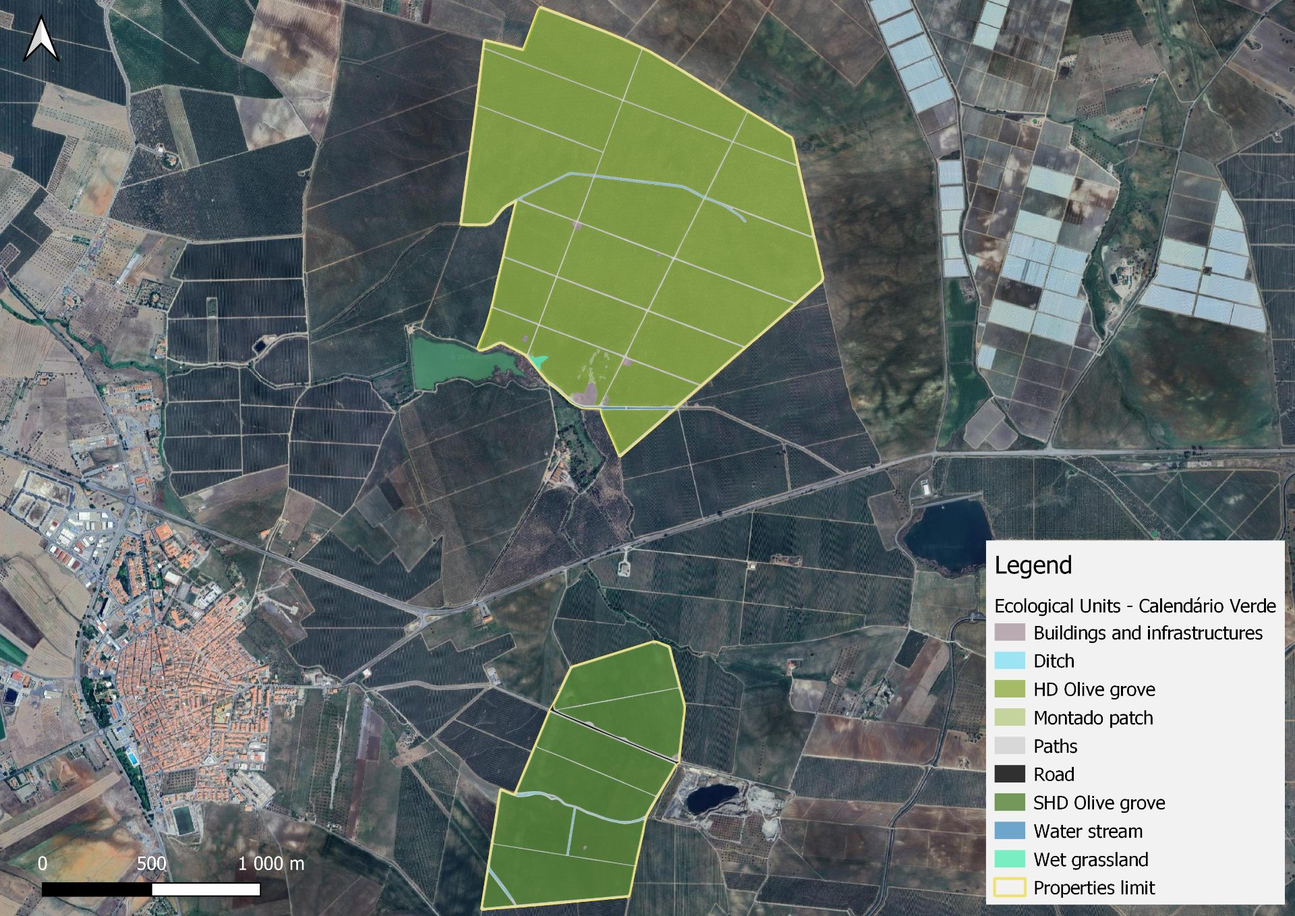
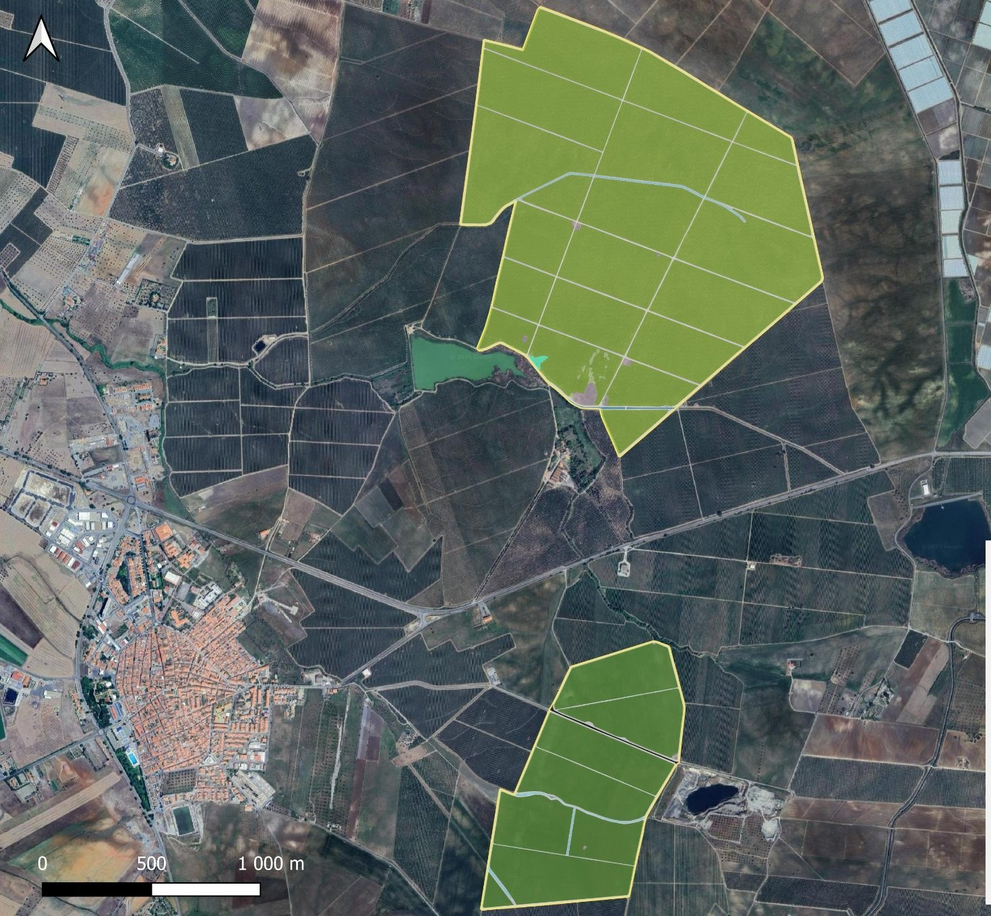
Fix Section 1/2 spacing and crop Section 6 farm maps
- Section 1 (Foreword): close the oversized gap between the "…ESG peers."
  and "In agriculture…" paragraphs so it matches the normal paragraph
  spacing; add an "— Alex Lawry-White and Nathan Hadlock" sign-off under
  the body text.
- Section 2 (Executive Summary): left-align the "Across everything we
  do…" block (and the two paragraphs after it) to match the other body
  text, instead of the centred 760px block.
- Section 6 (Our Portfolio): crop the three ecological-units farm maps
  from the right to remove their legends, and drop the captions. The
  Calendário Verde map is cropped in place (only used here); the Meirinho
  and Montinho maps get cropped copies so the full legended versions
  remain for the Section 13 deep dives.

Claude-Session: https://claude.ai/code/session_019RJWdrMA6n6Romz83YvDwN

diff --git a/impactreports/2025/pt2/index.html b/impactreports/2025/pt2/index.html
@@ -78,7 +78,7 @@
   </div>
 </section>
 
-<section data-section="01 · Foreword" style="padding:clamp(64px,11vh,140px) clamp(20px,5vw,64px);">
+<section data-section="01 · Foreword" style="padding:clamp(64px,11vh,140px) clamp(20px,5vw,64px) 0;">
   <div style="max-width:1180px;margin:0 auto;display:grid;grid-template-columns:1fr .82fr;gap:clamp(28px,4.5vw,60px);align-items:start;">
     <div>
       <p style="font-family:'JetBrains Mono',monospace;font-size:12px;letter-spacing:.24em;text-transform:uppercase;color:#b08b3f;font-weight:500;margin:0 0 14px;">Foreword from the Advisory Committee</p>
@@ -87,7 +87,7 @@
       <p style="text-wrap:pretty;margin:0 0 1.1em;">Impact is at the very heart of what we do. When we launched Pela Terra II in 2021, our vision was clear: we want to create a world in which agriculture contributes to restoring our planet, rather than being a factor in its destruction.</p>
       <p style="text-wrap:pretty;margin:0 0 1.1em;">With many thousands of hectares of irrigated agricultural land, a climate ideally suited for mediterranean perennials, diverse agricultural traditions and a supportive regulatory environment, Portugal offers the perfect location to roll out pioneering, forward-looking agronomic approaches.<sup style="font-size:.7em;"><a href="#fn-1" id="fnref-1" style="color:#b08b3f;text-decoration:none;padding:0 .1em;">1</a></sup></p>
       <p style="text-wrap:pretty;margin:0 0 1.1em;">Pela Terra II leverages these advantages to offer a unique proposition: a golden visa-eligible investment that allows investors to invest in creating impact while earning European residency for themselves and their families.</p>
-      <p style="text-wrap:pretty;margin:0;">We believe that the imperative to give back is not simply a moral one: multiple studies have suggested that funds that pay close attention to Environmental, Social and Governance (ESG) factors perform better than their non-ESG peers.<sup style="font-size:.7em;"><a href="#fn-2" id="fnref-2" style="color:#b08b3f;text-decoration:none;padding:0 .1em;">2</a></sup><sup style="font-size:.7em;"><a href="#fn-3" id="fnref-3" style="color:#b08b3f;text-decoration:none;padding:0 .1em;">3</a></sup></p>
+      <p style="text-wrap:pretty;margin:0 0 1.1em;">We believe that the imperative to give back is not simply a moral one: multiple studies have suggested that funds that pay close attention to Environmental, Social and Governance (ESG) factors perform better than their non-ESG peers.<sup style="font-size:.7em;"><a href="#fn-2" id="fnref-2" style="color:#b08b3f;text-decoration:none;padding:0 .1em;">2</a></sup><sup style="font-size:.7em;"><a href="#fn-3" id="fnref-3" style="color:#b08b3f;text-decoration:none;padding:0 .1em;">3</a></sup></p>
     </div>
     <figure style="margin:0;">
       <div style="display:grid;grid-template-columns:1fr 1fr;gap:16px;">
@@ -110,7 +110,7 @@
       <p style="text-wrap:pretty;margin:0 0 1.1em;">In agriculture, this relationship is clear on the ground: the adoption of regenerative agronomy correlates strongly to more resilient and consistent returns.<sup style="font-size:.7em;"><a href="#fn-4" id="fnref-4" style="color:#b08b3f;text-decoration:none;padding:0 .1em;">4</a></sup> It’s easy to see why - while conventional agriculture is in itself a significant contributor to the destruction of natural systems, agriculture as an industry is almost uniquely exposed to the risks related to environmental collapse. Changing weather patterns and collapsing biodiversity hit farmers before they hit other industries.</p>
       <p style="text-wrap:pretty;margin:0 0 1.1em;">Since we launched Pela Terra II in 2023, the environmental challenges facing our world have only become more acute. And as this report goes to press, ongoing geopolitical instability and resulting supply chain disruption is creating significant economic challenges for conventional farmers worldwide. The case for regenerative agriculture has never been stronger.</p>
       <p style="text-wrap:pretty;margin:0 0 1.1em;">Social and environmental impact is hugely important to Pela Terra II. The goal is for the assets managed by the fund to serve as beacons of sustainable and regenerative good practice in Portugal and Europe more widely. However, we also want to go a step further: our approach is to act as a catalyst to drive impact at scale, leveraging both our own portfolio and strong relationships with partners and operators to drive change in the sector as a whole.</p>
-      <p style="text-wrap:pretty;margin:0;">We are excited to share this impact journey with readers of this report.</p>
+      <p style="text-wrap:pretty;margin:0;">We are excited to share this impact journey with readers of this report.</p><p style="text-wrap:pretty;margin:1.4em 0 0;font-family:'Playfair Display',serif;font-style:italic;font-size:1.05rem;color:#0f4a4a;">— Alex Lawry-White and Nathan Hadlock</p>
     </div>
     <aside style="background:#f1e9da;border-top:2px solid #b08b3f;padding:30px 34px 34px;border-radius:3px;align-self:center;">
       <span style="font-family:'Playfair Display',serif;font-size:64px;line-height:.45;color:#b08b3f;height:.45em;display:block;">“</span>
@@ -146,10 +146,10 @@
 </section>
 
 <section data-section="02 · Executive Summary" style="padding:0 clamp(20px,5vw,64px) clamp(40px,6vh,70px);">
-  <div style="max-width:760px;margin:0 auto;">
-    <p style="text-wrap:pretty;margin:0 0 1.1em;">Across everything we do, we engage closely with farming, academic, and investment communities to share best practices, create jobs, and support change across the sector.</p>
-    <p style="text-wrap:pretty;margin:0 0 1.1em;">We work carefully to measure and track our progress, collaborating with selected measurement partners and reporting against external benchmarks and a fund-level set of KPIs that align with our six impact themes. We also disclose a wide range of other sustainability-related data to allow investors and interested parties to better understand our results.</p>
-    <p style="text-wrap:pretty;margin:0;">This report sets out our progress over the past year, sharing what has been done and what we have learned along the way.</p>
+  <div style="max-width:1180px;margin:0 auto;">
+    <p style="text-wrap:pretty;margin:0 0 1.1em;max-width:760px;">Across everything we do, we engage closely with farming, academic, and investment communities to share best practices, create jobs, and support change across the sector.</p>
+    <p style="text-wrap:pretty;margin:0 0 1.1em;max-width:760px;">We work carefully to measure and track our progress, collaborating with selected measurement partners and reporting against external benchmarks and a fund-level set of KPIs that align with our six impact themes. We also disclose a wide range of other sustainability-related data to allow investors and interested parties to better understand our results.</p>
+    <p style="text-wrap:pretty;margin:0;max-width:760px;">This report sets out our progress over the past year, sharing what has been done and what we have learned along the way.</p>
   </div>
 </section>
 
@@ -316,7 +316,6 @@
     </div>
     <figure style="margin:0;">
       <img src="/impactreports/2025/pt2/images/map-calendario-verde.jpg" alt="Ecological units land-use map of the Calendário Verde olive estate" style="display:block;width:100%;height:auto;border-radius:3px;border:1px solid #d9cfbd;">
-      <figcaption style="font-family:'JetBrains Mono',monospace;font-size:10.5px;letter-spacing:.1em;text-transform:uppercase;color:#9a8e6d;margin-top:10px;">Ecological units · Calendário Verde</figcaption>
     </figure>
   </div>
 </section>
@@ -341,8 +340,7 @@
       <div style="display:grid;grid-template-columns:repeat(3,1fr);gap:1px;background:#d9cfbd;border:1px solid #d9cfbd;"><div style="background:#faf7f0;padding:22px 18px;"><div style="font-family:'Playfair Display',serif;font-size:1.8rem;color:#0f4a4a;line-height:1;">5</div><div style="font-size:12px;color:#4c5a55;margin-top:10px;line-height:1.4;">different habitats</div></div><div style="background:#faf7f0;padding:22px 18px;"><div style="font-family:'Playfair Display',serif;font-size:1.8rem;color:#0f4a4a;line-height:1;">102</div><div style="font-size:12px;color:#4c5a55;margin-top:10px;line-height:1.4;">species of flora, of which 8 are RELAPE (Rare, Endemic, Local, At risk, Protected or Endangered)</div></div><div style="background:#faf7f0;padding:22px 18px;"><div style="font-family:'Playfair Display',serif;font-size:1.8rem;color:#0f4a4a;line-height:1;">62</div><div style="font-size:12px;color:#4c5a55;margin-top:10px;line-height:1.4;">fauna species, of which 14 are of conservation interest</div></div></div>
     </div>
     <figure style="margin:0;">
-      <img src="/impactreports/2025/pt2/images/deepdive-meirinho-ecological-units.jpg" alt="Ecological units land-use map of Herdade de Meirinho (Amandel)" style="display:block;width:100%;height:auto;border-radius:3px;border:1px solid #d9cfbd;">
-      <figcaption style="font-family:'JetBrains Mono',monospace;font-size:10.5px;letter-spacing:.1em;text-transform:uppercase;color:#9a8e6d;margin-top:10px;">Ecological units · Amandel</figcaption>
+      <img src="/impactreports/2025/pt2/images/deepdive-meirinho-ecological-units-crop.jpg" alt="Ecological units land-use map of Herdade de Meirinho (Amandel)" style="display:block;width:100%;height:auto;border-radius:3px;border:1px solid #d9cfbd;">
     </figure>
   </div>
 </section>
@@ -365,8 +363,7 @@
       <div style="display:grid;grid-template-columns:repeat(3,1fr);gap:1px;background:#d9cfbd;border:1px solid #d9cfbd;"><div style="background:#faf7f0;padding:22px 18px;"><div style="font-family:'Playfair Display',serif;font-size:1.8rem;color:#0f4a4a;line-height:1;">12</div><div style="font-size:12px;color:#4c5a55;margin-top:10px;line-height:1.4;">different habitats</div></div><div style="background:#faf7f0;padding:22px 18px;"><div style="font-family:'Playfair Display',serif;font-size:1.8rem;color:#0f4a4a;line-height:1;">150</div><div style="font-size:12px;color:#4c5a55;margin-top:10px;line-height:1.4;">species of flora, of which 25 are RELAPE (Rare, Endemic, Local, At risk, Protected or Endangered)</div></div><div style="background:#faf7f0;padding:22px 18px;"><div style="font-family:'Playfair Display',serif;font-size:1.8rem;color:#0f4a4a;line-height:1;">72</div><div style="font-size:12px;color:#4c5a55;margin-top:10px;line-height:1.4;">fauna species, of which 17 are of conservation interest</div></div></div>
     </div>
     <figure style="margin:0;">
-      <img src="/impactreports/2025/pt2/images/deepdive-montinho-ecological-units.jpg" alt="Ecological units land-use map of Herdade de Montinho &amp; Monte Migueis" style="display:block;width:100%;height:auto;border-radius:3px;border:1px solid #d9cfbd;">
-      <figcaption style="font-family:'JetBrains Mono',monospace;font-size:10.5px;letter-spacing:.1em;text-transform:uppercase;color:#9a8e6d;margin-top:10px;">Ecological units · Montinho &amp; Monte Migueis</figcaption>
+      <img src="/impactreports/2025/pt2/images/deepdive-montinho-ecological-units-crop.jpg" alt="Ecological units land-use map of Herdade de Montinho &amp; Monte Migueis" style="display:block;width:100%;height:auto;border-radius:3px;border:1px solid #d9cfbd;">
     </figure>
   </div>
 </section>
